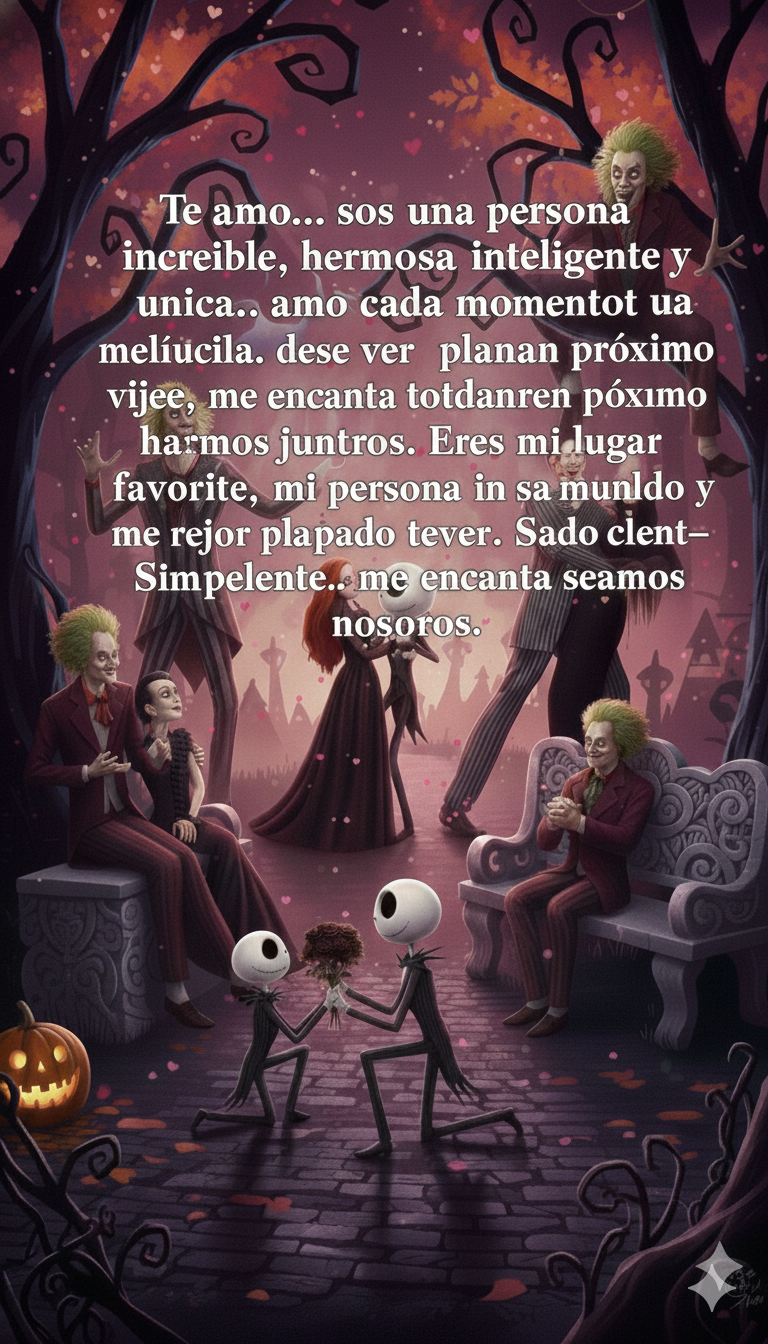
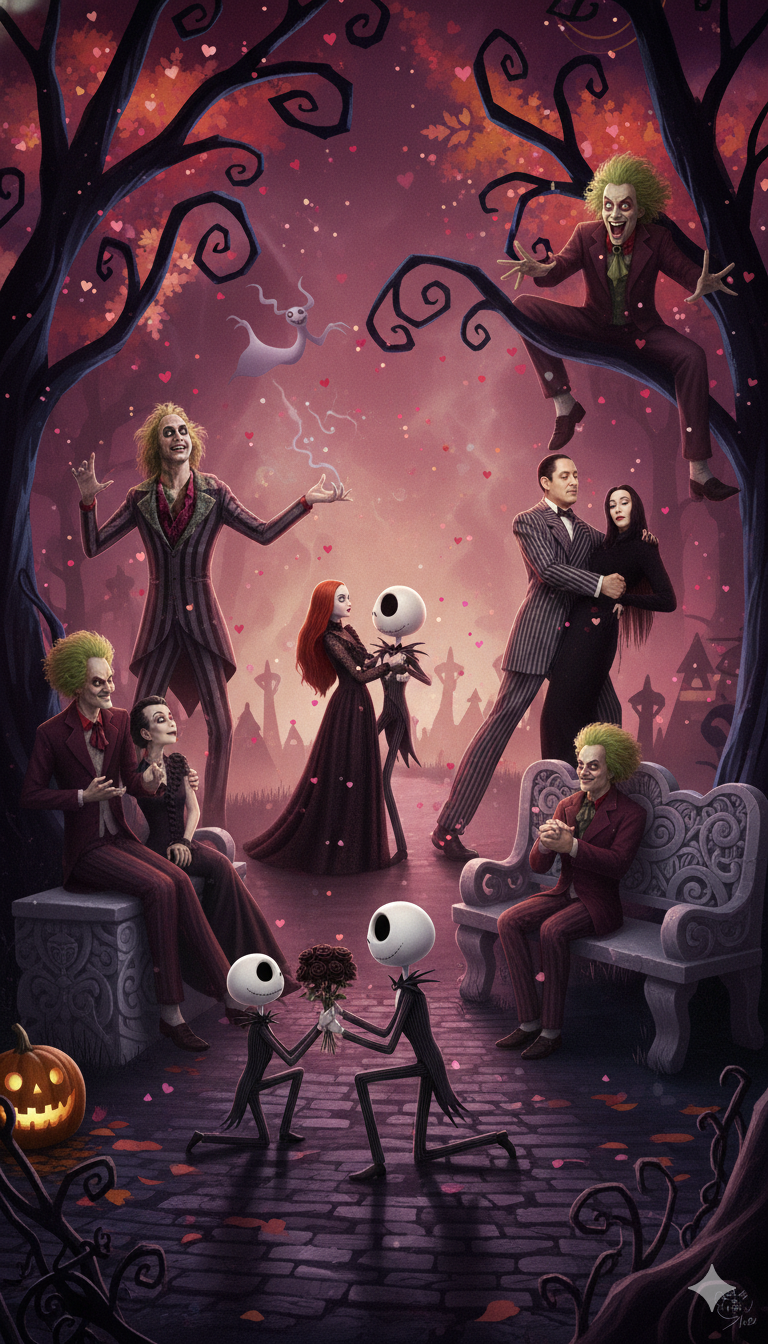
&&&&&&

diff --git a/pages/teamo/teamo.html b/pages/teamo/teamo.html
@@ -9,38 +9,24 @@
     <link href="https://cdn.jsdelivr.net/npm/bootstrap@5.3.8/dist/css/bootstrap.min.css" rel="stylesheet">
     <link rel="stylesheet" href="https://cdn.jsdelivr.net/npm/bootstrap-icons@1.13.1/font/bootstrap-icons.min.css">
 
-    <style>
-        /* Fondo completo con la foto */
-        .hero {
-            height: 100vh;
-            background-image: url("/pablo/assets/teamo/1.png"); /* RUTA PARA GITHUB PAGES */
-            background-size: cover;
-            background-position: center;
-            background-repeat: no-repeat;
-        }
-
-        /* Oscurecer un poquito para que resalte el texto (podés sacar esto si no te gusta) */
-        .hero::before {
-            content: "";
-            position: absolute;
-            inset: 0;
-            background: rgba(0, 0, 0, 0.35);
-        }
-
-        .hero .content {
-            position: relative;
-            z-index: 2;
-        }
-    </style>
+    
 </head>
 
 <body>
 <header></header>
+<section class="hero-container d-flex align-items-center justify-content-center">
+    <img src="/pablo/assets/teamo/1.png" class="hero-img" alt="">
+</section>
+
 
 <section class="hero d-flex align-items-center justify-content-center text-center">
     <div class="content">
         <h1 class="display-3 fw-bold text-white">Te Amo ❤</h1>
-        <p class="text-white fs-4">Gracias por cada momento que compartimos.</p>
+        <p class="text-white fs-4"> Sos una persona increible, hermosa, inteligente y unica..
+
+amo cada momento.. desde ver una película hasta planear el próximo viaje, me encanta todo lo que hacemos juntos. Eres mi lugar favorito, mi persona en el mundo y el mejor plan que puedo tener.
+
+Simplemente... me encanta que seamos nosotros.</p>
     </div>
 </section>
 

diff --git a/css/styles.css b/css/styles.css
@@ -101,3 +101,16 @@ body {
 .carousel-control-next {
   width: 12%;
 }
+.hero-container {
+    height: 100vh;
+    width: 100%;
+    overflow: hidden;
+    background: #000; /* opcional */
+}
+
+.hero-img {
+    width: 100%;
+    height: 100%;
+    object-fit: contain;   /* ✔ FOTO ENTERA */
+    object-position: center;
+}
